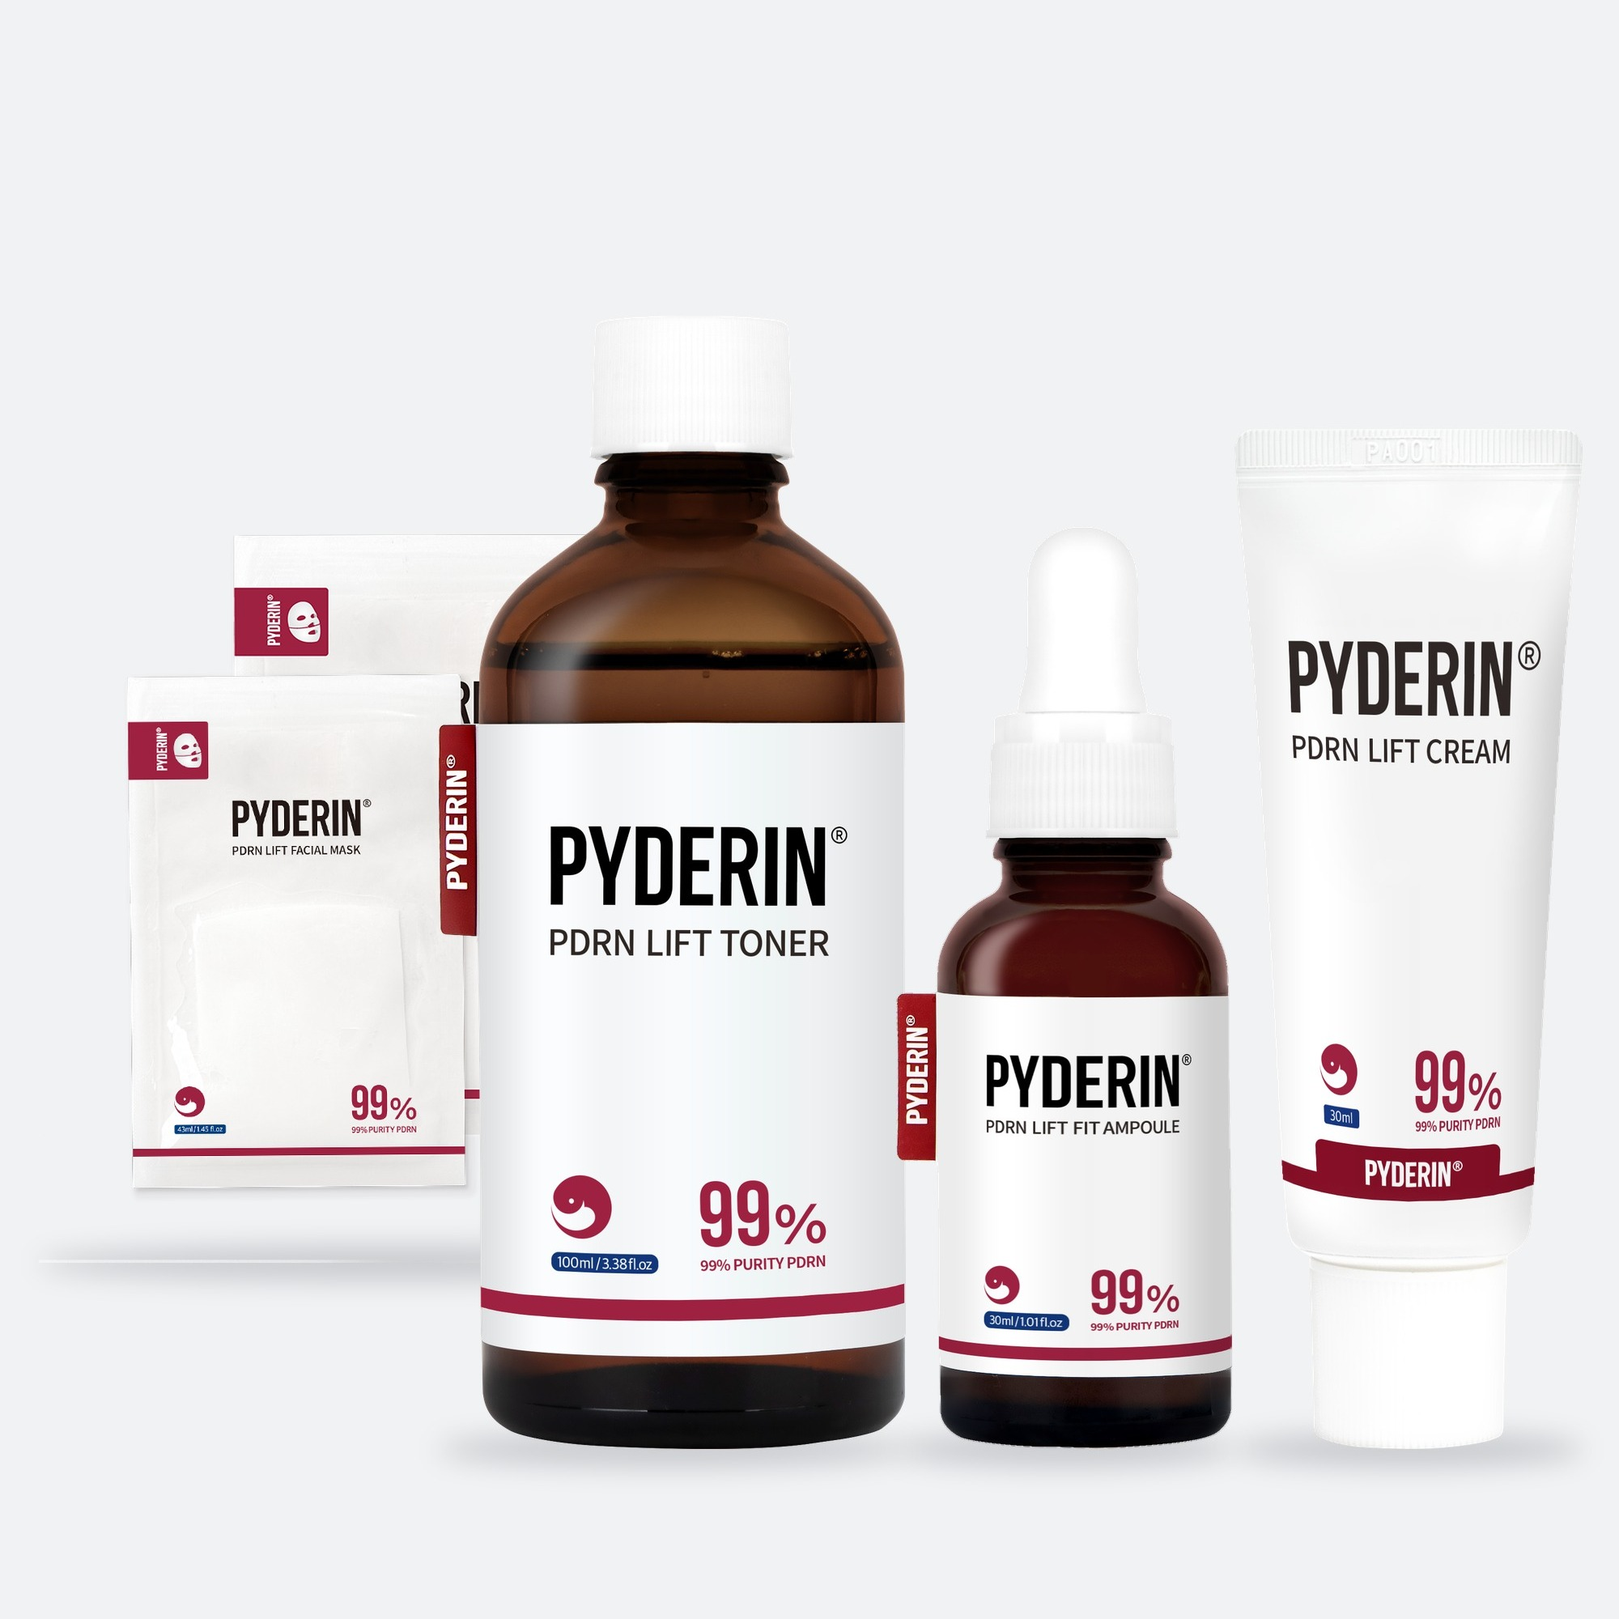
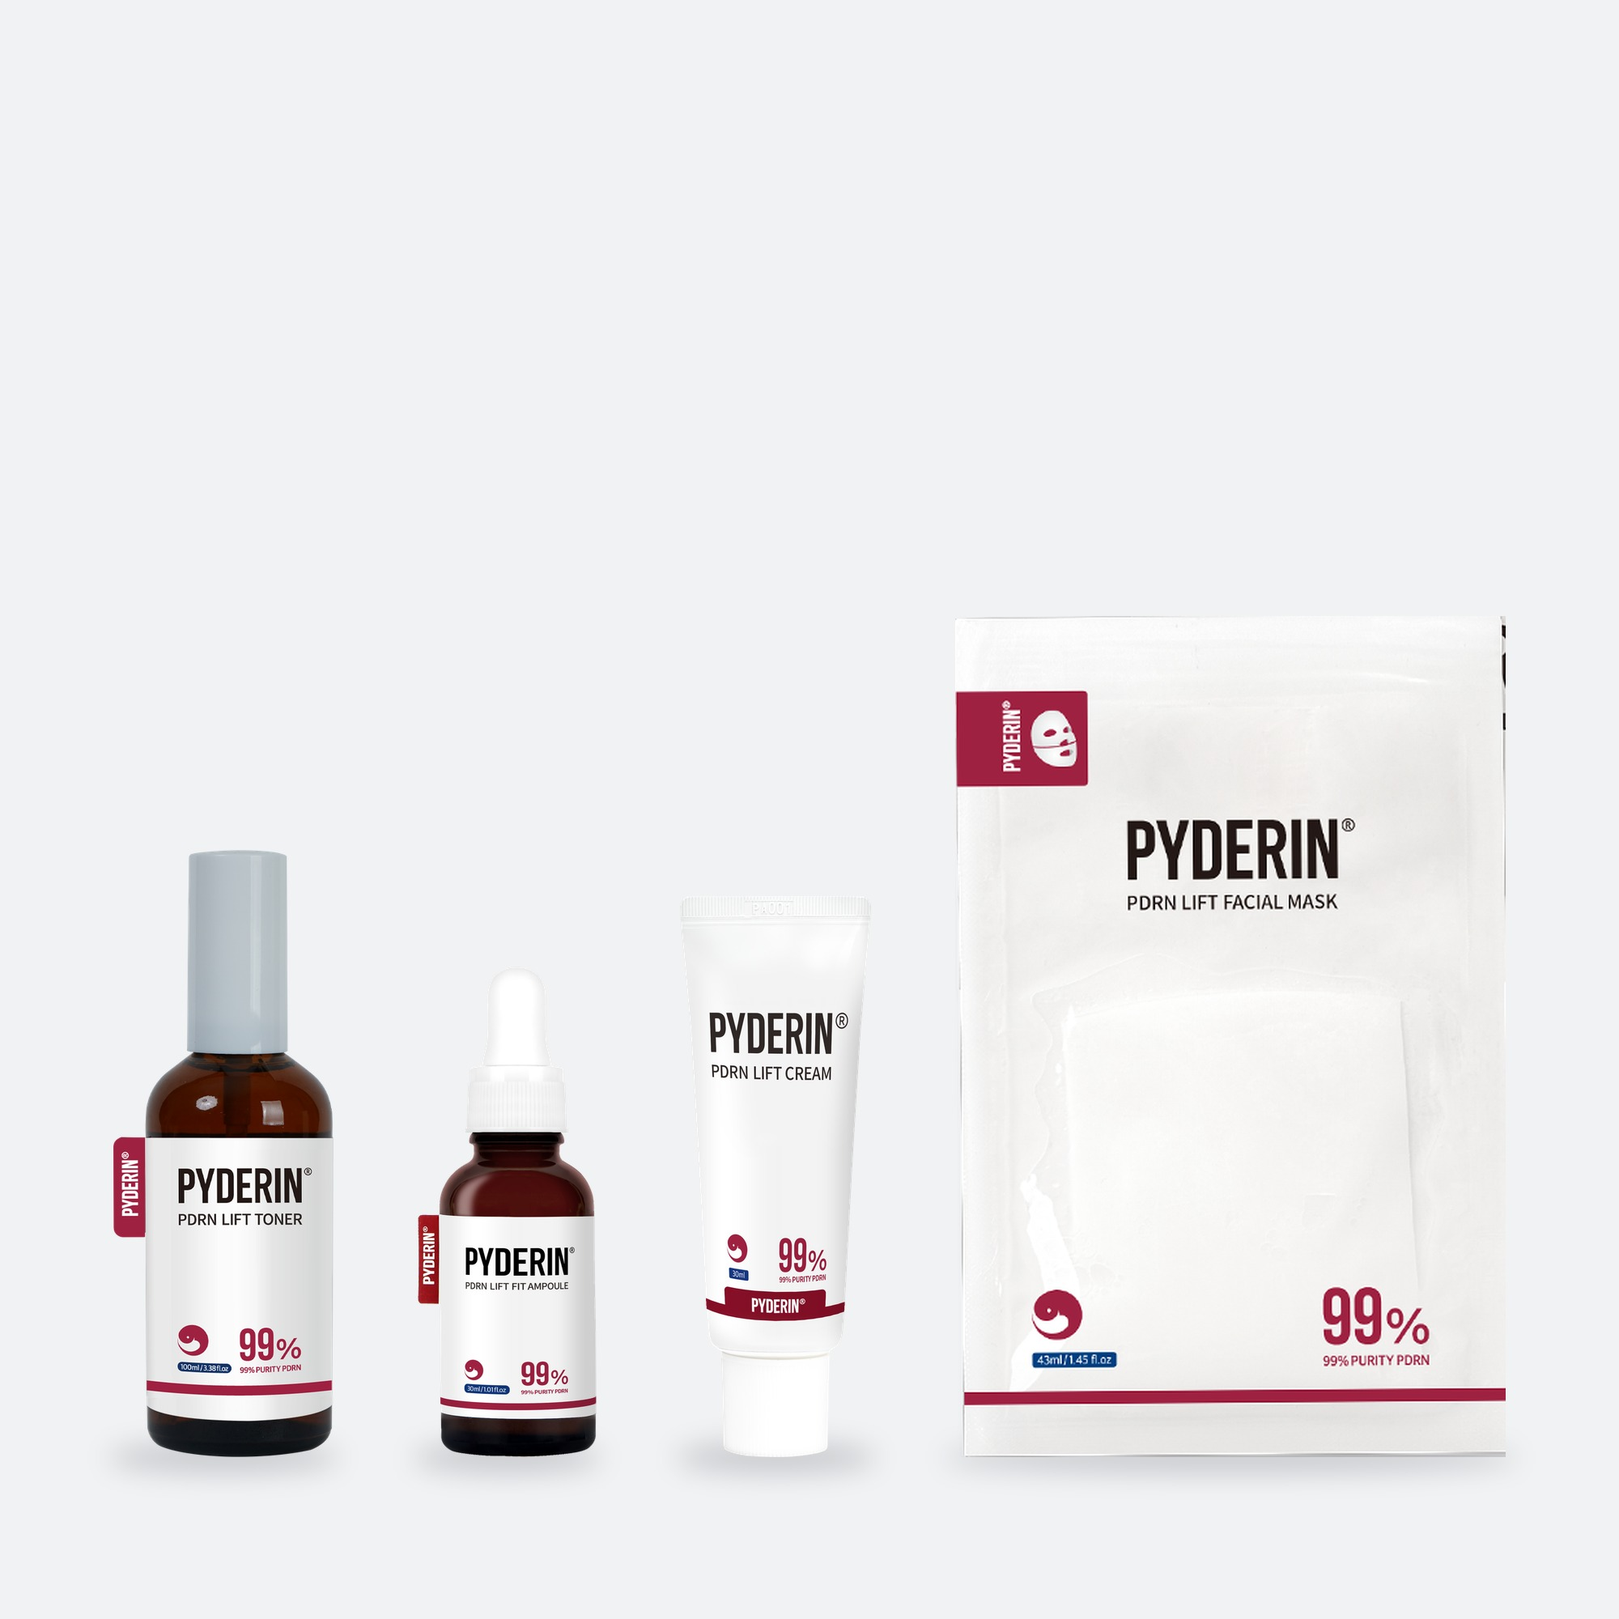
brandstore v5: 이미지 규격 통일(첫 화면 2:1 배너·나머지 1:1), 새 토너·마스크 크기 반영, REJUVUSTER 연출컷 제거(누끼 톤 통일)

diff --git a/brandstore-v5/store/rejuvuster.html b/brandstore-v5/store/rejuvuster.html
@@ -4,12 +4,7 @@
 <label><input type="checkbox" onchange="document.body.classList.toggle('qa',this.checked)"> 출처·확인 필요 표시</label></div></div>
 <div class="amz"><div class="wrap bar"><img src="img/logo-dark.png" alt="PYDERIN"><a href="index.html">Home</a><a href="shop.html">Shop All</a><a href="lift.html">PDRN Lift</a><b>REJUVUSTER</b><a href="about.html">About Us</a><span class="f">Follow</span></div></div>
 
-<div class="split first">
- <div class="tx" data-tile="첫 화면 글 · 절반 칸 → 상품 B0GYDB5H9X"><span class="eyebrow">The Korean pharmacy line</span><h1>REJUVUSTER Cream+</h1><p>PDRN Rejuvenating Cream+, recommended through pharmacy consultation in Korea.</p>
-  <div class="nums"><div><b class="num">10,000 ppm</b><span>Sodium DNA per 1 ml</span></div><div><b class="num">99%</b><span>PDRN purity<sup>1</sup></span></div><div><b class="num">97 kDa</b><span>Low molecular weight</span></div></div>
-  <p class="fn">¹ Genocure certificate of analysis, Derbiome PDRN, April 2025.</p><span class="btn" style="align-self:flex-start;margin-top:22px">Shop now</span></div>
- <div class="im rel" data-tile="첫 화면 사진 · 절반 칸 → 상품 B0GYDB5H9X"><span class="qa-tag">스튜디오 원본(쥬씨 180662) · 화이트밸런스·밝기</span><img src="img/rj_first.jpg" alt="" style="aspect-ratio:4/5"></div>
-</div>
+<div class="banner rel" data-tile="첫 화면 배너 · 전체 폭 2:1(글 포함) → 상품 B0GYDB5H9X" data-d-only="1"><span class="qa-tag">현재 라벨 누끼(단상자·튜브 빛반사보정본)</span><img class="d" src="img/rj_banner.jpg" alt=""><div class="tx"><div class="wrap"><div class="box"><span class="eyebrow">The Korean pharmacy line</span><h1>REJUVUSTER Cream+</h1><p>PDRN Rejuvenating Cream+, recommended through pharmacy consultation in Korea.</p><p class="kv"><b>10,000 ppm</b> sodium DNA per 1 ml · <b>99%</b> PDRN purity<sup>1</sup> · <b>97 kDa</b></p><p class="fn">¹ Genocure certificate of analysis, Derbiome PDRN, April 2025.</p><span class="btn">Shop now</span></div></div></div><div class="txm" data-tile-m="모바일 첫 화면 글 · 전체 폭 → 상품 B0GYDB5H9X"><span class="eyebrow">The Korean pharmacy line</span><h1>REJUVUSTER Cream+</h1><p>PDRN Rejuvenating Cream+, recommended through pharmacy consultation in Korea.</p><p class="kv"><b>10,000 ppm</b> sodium DNA per 1 ml · <b>99%</b> PDRN purity<sup>1</sup> · <b>97 kDa</b></p><p class="fn">¹ Genocure certificate of analysis, Derbiome PDRN, April 2025.</p><span class="btn">Shop now</span></div><img class="m" src="img/rj_banner_m.jpg" alt="" data-tile-m="모바일 첫 화면 사진 1:1 · 전체 폭 → 상품 B0GYDB5H9X"></div>
 <section><div class="wrap">
  <div class="head" data-tile="제목 · 전체 폭"><div><span class="eyebrow">Validated at the cellular level</span><h2>Nine assessments completed</h2></div><p>Results are derived from actual skin-cell experiments, not subjective claims.</p></div>
  <div class="facts eight rel" data-tile="세포 시험 수치 · 전체 폭"><span class="qa-tag warn">세포 시험(사람 대상 아님) · 노화지표 +58.15%는 부호가 본문과 어긋나 제외 · 미국 표현 검토</span><div><b class="num">+32.14%</b><span>Cell viability</span></div><div><b class="num">+79.27%</b><span>ATP (mitochondrial) production</span></div><div><b class="num">+58.04%</b><span>Collagen (COL1A1 mRNA)</span></div><div><b class="num">+75.39%</b><span>Filaggrin (FLG mRNA)</span></div><div><b class="num">−52.72%</b><span>Melanin production</span></div><div><b class="num">+358.64%</b><span>Catalase production</span></div><div><b class="num">+61.34%</b><span>Calming cellular activity</span></div><div><b class="num">+38.37%</b><span>Skin barrier</span></div></div><p class="fn" style="margin-top:12px">Results from skin-cell experiments versus negative control (24 hours) at accredited domestic institutions; not results measured on skin. Assessments: Cellular soothing effect by physical stimulation (KIDS-WOHL01-BE003); Improvement of mitochondrial (ATP) production in stimulated cells (KIDS-CENG01-BE001); Improvement of cell viability (KIDS-CYTO-BE005); Evaluation of filaggrin production (KIDS-BAR01-BE002); Evaluation of collagen production (KIDS-WRIN01-BE014); Evaluation of melanin inhibition (KIDS-MEL03-BE005); Inhibition of aging-marker production in UV-aged melanogenic cells (KIDS-WRIN10-BE003); Antioxidant effect on proteins in hyperpigmented areas (KIDS-BEH103-BNK); Improvement of the skin barrier against external (physical) stimuli (KIDS-BEH103-BNK).</p>
@@ -20,10 +15,6 @@
   <div><b>SECOLGI</b><span>Strengthens barrier lipid architecture; reduces transepidermal water loss.</span></div><div><b>11-strain microbiome complex</b><span>Maintains a healthy skin microbiome; helps improve skin texture.</span></div><div><b>Panthenol · Ectoine · Squalane</b><span>Enhances moisture retention; stabilizes skin balance against external stressors.</span></div><div><b>Cica complex</b><span>Centella-derived complex for soothing and reinforcement of the protective film.</span></div>
  </div>
 </div></section>
-<section style="padding-top:0"><div class="wrap"><div class="duo">
- <div class="rel" data-tile="제형 사진 1 · 절반 칸 → 상품 B0GYDB5H9X"><span class="qa-tag">스튜디오 원본(180614) · 화이트밸런스·밝기</span><img src="img/rj_squeeze1.jpg" alt=""></div>
- <div class="rel" data-tile="제형 사진 2 · 절반 칸 → 상품 B0GYDB5H9X"><span class="qa-tag">스튜디오 원본(180641) · 화이트밸런스·밝기</span><img src="img/rj_squeeze2.jpg" alt=""></div>
-</div></div></section>
 <section style="padding-top:0"><div class="wrap">
  <div class="howto" data-tile="사용법 · 전체 폭">
   <div><span class="eyebrow">How to use</span><p>After the previous step has been fully absorbed, apply an appropriate amount. Allow approximately 10 minutes for absorption, then proceed to the next step.</p></div>

diff --git a/brandstore-v5/store/lift.html b/brandstore-v5/store/lift.html
@@ -4,12 +4,7 @@
 <label><input type="checkbox" onchange="document.body.classList.toggle('qa',this.checked)"> 출처·확인 필요 표시</label></div></div>
 <div class="amz"><div class="wrap bar"><img src="img/logo-dark.png" alt="PYDERIN"><a href="index.html">Home</a><a href="shop.html">Shop All</a><b>PDRN Lift</b><a href="rejuvuster.html">REJUVUSTER</a><a href="about.html">About Us</a><span class="f">Follow</span></div></div>
 
-<div class="split first">
- <div class="im rel" data-tile="첫 화면 사진 · 절반 칸 → 링크: PDRN Lift 라인"><span class="qa-tag">현재 라벨 누끼 4종 배치(토너·앰플·크림·마스크)</span><img src="img/lift_line.jpg" alt="" style="aspect-ratio:4/5"></div>
- <div class="tx" data-tile="첫 화면 글 · 절반 칸"><span class="eyebrow">The Lift line</span><h1>PDRN Lift</h1><p>For elasticity and firmness. Four steps, built around 99% pure PDRN.<sup>1</sup></p>
-  <p style="margin-top:10px;color:var(--sub);font-size:14px">For all skin types concerned with loss of firmness. Skin irritation index 0.00.<sup>2</sup></p>
-  <p class="fn" style="margin-top:18px">¹ 99% pure PDRN refers to the purity of Derbiome® PDRN 10K Sodium DNA. ² PDRN Lift Toner test report.</p></div>
-</div>
+<div class="banner rel" data-tile="첫 화면 배너 · 전체 폭 2:1(글 포함) → PDRN Lift 라인" data-d-only="1"><span class="qa-tag">현재 라벨 누끼 4종(새 토너) 배치</span><img class="d" src="img/lift_banner.jpg" alt=""><div class="tx"><div class="wrap"><div class="box"><span class="eyebrow">The Lift line</span><h1>PDRN Lift</h1><p>For elasticity and firmness. Four steps, built around 99% pure PDRN.<sup>1</sup></p><p class="sm">For all skin types concerned with loss of firmness. Skin irritation index 0.00.<sup>2</sup></p><p class="fn">¹ 99% pure PDRN refers to the purity of Derbiome® PDRN 10K Sodium DNA. ² PDRN Lift Toner test report.</p></div></div></div><div class="txm" data-tile-m="모바일 첫 화면 글 · 전체 폭 → PDRN Lift 라인"><span class="eyebrow">The Lift line</span><h1>PDRN Lift</h1><p>For elasticity and firmness. Four steps, built around 99% pure PDRN.<sup>1</sup></p><p class="sm">For all skin types concerned with loss of firmness. Skin irritation index 0.00.<sup>2</sup></p><p class="fn">¹ 99% pure PDRN refers to the purity of Derbiome® PDRN 10K Sodium DNA. ² PDRN Lift Toner test report.</p></div><img class="m" src="img/lift_banner_m.jpg" alt="" data-tile-m="모바일 첫 화면 사진 1:1 · 전체 폭 → PDRN Lift 라인"></div>
 <section><div class="wrap">
  <div class="head" data-tile="제목 · 전체 폭"><div><span class="eyebrow">The routine</span><h2>What each one does</h2></div><p>What goes into each step, and how to use it.</p></div>
  <div class="steps txt"><div class="rel" data-tile="4분의1 칸 → 상품 B0GX5ZGSGZ"><span class="qa-tag">공식 상세페이지 문구</span><span class="step">STEP 01 · 100 ml</span><h3>PDRN Lift Toner</h3><p class="ing">99% pure PDRN 2,000ppm · 280 Dalton low molecular collagen · Acetyl Hexapeptide-8</p><p>After cleansing, apply an appropriate amount onto a cotton pad or your hands and gently absorb into the skin following its texture.</p></div><div class="rel" data-tile="4분의1 칸 → 상품 B0GYDZ1VTT"><span class="qa-tag">공식 상세페이지 문구</span><span class="step">STEP 02 · 30 ml</span><h3>PDRN Lift Fit Ampoule</h3><p class="ing">99% pure PDRN 2,000ppm · 300 Dalton low molecular collagen · 9 types of firming peptides · 98% pure spicules</p><p>Shake the ampoule well before use. Apply an appropriate amount to the skin, then press and rub gently with your fingertips to aid absorption.</p></div><div class="rel" data-tile="4분의1 칸 → 상품 B0GXKPSZFK"><span class="qa-tag">공식 상세페이지 문구</span><span class="step">STEP 03 · 30 ml</span><h3>PDRN Lift Cream</h3><p class="ing">99% pure PDRN 20,000ppm · Panthenol 20,000ppm · Super Centella 10,000ppm</p><p>Take an appropriate amount and apply generously to the skin, allowing it to absorb fully.</p></div><div class="rel" data-tile="4분의1 칸 → 상품 B0GZSR79Z4"><span class="qa-tag">공식 상세페이지 문구</span><span class="step">WEEKLY · 5 sheets</span><h3>PDRN Lift Facial Mask</h3><p class="ing">99% pure PDRN 2,000ppm · 5-layer moisture blanket sheet · 15 types of fermented probiotics</p><p>Apply the lower sheet around the mouth and nose, then the upper sheet around the eyes. Relax for 30 minutes, then remove.</p></div></div>
@@ -23,7 +18,7 @@
   <p style="margin-top:10px;color:var(--sub);font-size:14px">For all skin types concerned with loss of elasticity and dryness.</p><span class="btn" style="margin-top:22px">Shop now</span></div>
  <div class="nums"><div><b class="num">20,000 ppm</b><span>99% pure PDRN</span></div><div><b class="num">20,000 ppm</b><span>Panthenol</span></div><div><b class="num">10,000 ppm</b><span>Super Centella</span></div></div>
 </div></div></section>
-<section style="padding-top:0"><div class="wrap"><div class="explore one"><a href="rejuvuster.html" data-tile="이동 칸 → 링크: REJUVUSTER 페이지"><img src="img/rj_cut_sq.jpg" alt=""><div class="cap"><div><span class="eyebrow">The Korean pharmacy line</span><h3>REJUVUSTER</h3></div><span class="btn">Explore</span></div></a></div></div></section>
+<section style="padding-top:0"><div class="wrap"><div class="explore one"><a href="rejuvuster.html" data-tile="이동 칸 → 링크: REJUVUSTER 페이지"><img src="img/rj_tube_sq.jpg" alt=""><div class="cap"><div><span class="eyebrow">The Korean pharmacy line</span><h3>REJUVUSTER</h3></div><span class="btn">Explore</span></div></a></div></div></section>
 
 
 </body></html>

diff --git a/brandstore-v5/store/about.html b/brandstore-v5/store/about.html
@@ -4,15 +4,12 @@
 <label><input type="checkbox" onchange="document.body.classList.toggle('qa',this.checked)"> 출처·확인 필요 표시</label></div></div>
 <div class="amz"><div class="wrap bar"><img src="img/logo-dark.png" alt="PYDERIN"><a href="index.html">Home</a><a href="shop.html">Shop All</a><a href="lift.html">PDRN Lift</a><a href="rejuvuster.html">REJUVUSTER</a><b>About Us</b><span class="f">Follow</span></div></div>
 
-<div class="split first">
- <div class="tx" data-tile="첫 화면 글 · 절반 칸"><span class="eyebrow">About us</span><h1>PDRN skincare from Korea's clinics and pharmacies</h1><p>Found in Korean skin clinics. Carried by pharmacies across Korea.</p></div>
- <div class="im rel" data-tile="첫 화면 사진 · 절반 칸"><span class="qa-tag">현재 라벨 누끼 2개 배치</span><img src="img/about_first.jpg" alt="" style="aspect-ratio:4/5"></div>
-</div>
+<div class="banner rel" data-tile="첫 화면 배너 · 전체 폭 2:1(글 포함) → Home" data-d-only="1"><span class="qa-tag">현재 라벨 누끼 5종 배치</span><img class="d" src="img/about_banner.jpg" alt=""><div class="tx"><div class="wrap"><div class="box"><span class="eyebrow">About us</span><h1>PDRN skincare from Korea's clinics and pharmacies</h1><p>Found in Korean skin clinics. Carried by pharmacies across Korea.</p></div></div></div><div class="txm" data-tile-m="모바일 첫 화면 글 · 전체 폭 → Home"><span class="eyebrow">About us</span><h1>PDRN skincare from Korea's clinics and pharmacies</h1><p>Found in Korean skin clinics. Carried by pharmacies across Korea.</p></div><img class="m" src="img/about_banner_m.jpg" alt="" data-tile-m="모바일 첫 화면 사진 1:1 · 전체 폭 → Home"></div>
 <section class="chan"><div class="wrap">
  <div class="big" data-tile="채널 제목 · 전체 폭"><div><span class="eyebrow">Professional channel</span><h2>Where PYDERIN is used in Korea.</h2></div></div>
  <div class="rel" data-tile="영상 칸(눌러서 재생): 병원·약국 v14c" data-video="1"><span class="qa-tag">확정 영상 v14c</span><video src="../../video/clinic.mp4" poster="img/clinic_poster.jpg" controls muted playsinline style="aspect-ratio:2/1;object-fit:cover;background:#000"></video></div>
 </div></section>
 <section style="padding-top:0"><div class="wrap"><div class="head" data-tile="제목 · 전체 폭"><div><span class="eyebrow">Explore the lines</span><h2>Two lines. One PDRN standard.</h2></div></div></div></section>
-<section style="padding-top:0"><div class="wrap"><div class="explore sq"><a href="lift.html" data-tile="이동 칸 → 링크: PDRN Lift 페이지"><img src="img/lift_line_sq.jpg" alt=""><div class="cap"><div><span class="eyebrow">The Lift line</span><h3>PDRN Lift</h3></div><span class="btn">Explore</span></div></a><a href="rejuvuster.html" data-tile="이동 칸 → 링크: REJUVUSTER 페이지"><img src="img/rj_cut_sq.jpg" alt=""><div class="cap"><div><span class="eyebrow">The Korean pharmacy line</span><h3>REJUVUSTER</h3></div><span class="btn">Explore</span></div></a></div></div></section>
+<section style="padding-top:0"><div class="wrap"><div class="explore sq"><a href="lift.html" data-tile="이동 칸 → 링크: PDRN Lift 페이지"><img src="img/lift_line_sq.jpg" alt=""><div class="cap"><div><span class="eyebrow">The Lift line</span><h3>PDRN Lift</h3></div><span class="btn">Explore</span></div></a><a href="rejuvuster.html" data-tile="이동 칸 → 링크: REJUVUSTER 페이지"><img src="img/rj_tube_sq.jpg" alt=""><div class="cap"><div><span class="eyebrow">The Korean pharmacy line</span><h3>REJUVUSTER</h3></div><span class="btn">Explore</span></div></a></div></div></section>
 
 </body></html>

diff --git a/brandstore-v5/store/style.css b/brandstore-v5/store/style.css
@@ -108,6 +108,10 @@ section{padding:80px 0}
 .faq{border-top:1px solid var(--ink)}.faq div{padding:20px 0;border-bottom:1px solid var(--line)}.faq b{display:block;font:600 19px Archivo;font-stretch:80%;color:var(--ink);margin-bottom:6px}.faq p{font-size:14px;max-width:820px}
 .steps.txt > div{border-top:1px solid var(--ink);padding-top:16px}.steps.txt .step{margin-top:0}
 .sig{display:grid;grid-template-columns:1fr 1fr;gap:56px;align-items:center;border-top:1px solid var(--line);padding-top:44px}.sig h2{font-size:42px;line-height:1.02;margin-bottom:12px}.sig .nums{margin:0}
+.banner{position:relative;background:#f1f2f4}.banner img.d{aspect-ratio:2/1;object-fit:cover}.banner .tx{position:absolute;inset:0;display:flex;align-items:center}.banner .tx .wrap{width:100%}
+.banner .box{max-width:440px}.banner h1{font-size:clamp(44px,4.6vw,68px);line-height:1;margin-bottom:14px}.banner p{font-size:15px;color:var(--ink)}.banner .sm{margin-top:10px;font-size:14px;color:var(--sub)}
+.banner .kv{margin-top:14px;font-size:14px}.banner .kv b{font:600 20px Archivo;font-stretch:75%}.banner .fn{margin-top:14px}.banner .btn{margin-top:20px}
+.banner .txm,.banner img.m{display:none}
 /* 다른 라인으로 */
 .explore{display:grid;grid-template-columns:1fr 1fr;gap:24px}
 .explore img{aspect-ratio:3/2;object-fit:cover}.explore.sq img{aspect-ratio:1}
@@ -129,5 +133,6 @@ section{padding:80px 0}
  .chan .stat .num{font-size:52px}.quotes{grid-template-columns:1fr}.ingr{grid-template-columns:1fr!important}
  .facts,.facts.eight{grid-template-columns:1fr 1fr}.howto{grid-template-columns:1fr}.clin .r{grid-template-columns:1fr 1fr 40px;gap:6px 12px;align-items:end}.clin .r b{grid-column:1/-1}.clin .r.h{display:none}.clin .num{font-size:26px}.clin .r span[data-l]::before{content:attr(data-l);display:block;font:400 10px Geologica;letter-spacing:.1em;text-transform:uppercase;color:var(--sub);margin-bottom:4px}
  .sig{grid-template-columns:1fr;gap:24px}.sig h2{font-size:30px}
+ .banner img.d,.banner .tx{display:none}.banner .txm{display:block;padding:34px 16px 26px;background:#fff}.banner img.m{display:block;aspect-ratio:1}
  .explore.one a{grid-template-columns:1fr}.cmp .r{grid-template-columns:1fr 1fr;gap:6px 12px}.cmp .r b{grid-column:1/-1}.cmp .r.h{display:none}.cmp .r span[data-l]::before{content:attr(data-l);display:block;font:400 10px Geologica;letter-spacing:.1em;text-transform:uppercase;color:var(--sub)}.explore.one .cap{padding:20px}.ptitle{padding:44px 0 0}.fn{font-size:12px}
 }
